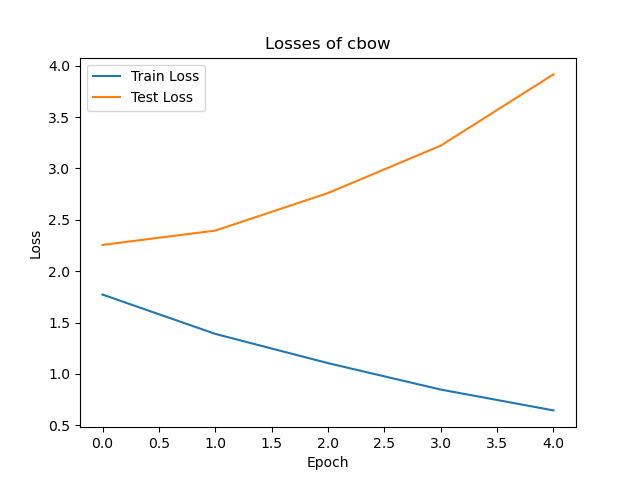
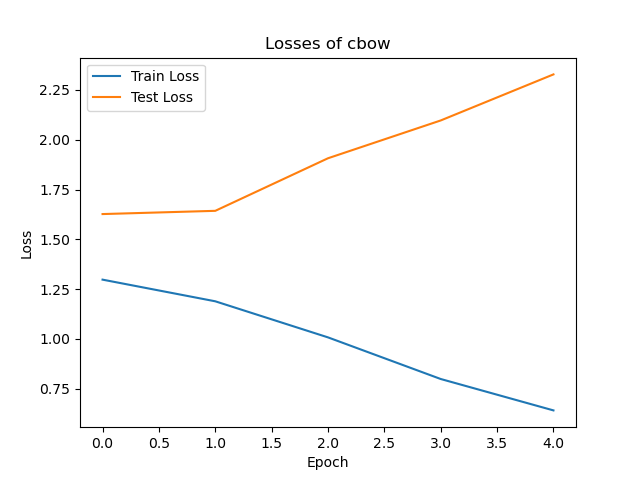
added the pretrained deep cbows

diff --git a/practical_2/models/DeepCBOW.py b/practical_2/models/DeepCBOW.py
@@ -1,0 +1,94 @@
+import torch
+from torch import nn
+import torch.nn.functional as F
+from practical_2.utils import t2i, Vocabulary, load_pretrained_weights
+import numpy as np
+
+
+def zero_init_function(n_vectors, vector_size):
+    return [[0] * vector_size] * n_vectors
+
+
+class DeepCBOW(nn.Module):
+    """A simple bag-of-words model"""
+
+    def __init__(self, vocab_size, embedding_dim, hidden_layer_dim, vocab, out_size=5):
+        super(DeepCBOW, self).__init__()
+        self.vocab = vocab
+
+        # this is a trainable look-up table with word embeddings
+        self.embed = nn.Embedding(vocab_size, embedding_dim)
+        self.l1 = nn.Linear(embedding_dim, hidden_layer_dim)
+        self.l2 = nn.Linear(hidden_layer_dim, hidden_layer_dim)
+        self.l3 = nn.Linear(hidden_layer_dim, 5)
+
+        self.layers = [
+            self.l1, self.l2, self.l3
+
+        ]
+
+        # this is a trainable bias term
+        self.bias = nn.Parameter(torch.zeros(out_size), requires_grad=True)
+
+    def forward(self, inputs):
+        # this is the forward pass of the neural network
+        # it applies a function to the input and returns the output
+
+        # this looks up the embeddings for each word ID in inputs
+        # the result is a sequence of word embeddings
+        x = self.embed(inputs)
+
+        for layer in self.layers:
+            x = torch.tanh(layer(x))
+
+        # the output is the sum across the time dimension (1)
+        # with the bias term added
+        logits = x.sum(1)
+
+        return logits
+
+
+class PTDeepCBOW(DeepCBOW):
+    """A simple bag-of-words model"""
+
+    def __init__(self, vocab_size, embedding_dim, hidden_layer_dim, vocab, out_size=5):
+        super(PTDeepCBOW, self).__init__(vocab_size, embedding_dim, hidden_layer_dim, vocab, out_size=out_size)
+
+    def load_pretrained_weights(self, vectors):
+        '''
+            Loads the pretrained weights from the given file.
+            Returns the vocab that it created loading the weights
+        :param ref:
+        :return:
+        '''
+        self.embed.weight.data.copy_(torch.from_numpy(vectors))
+
+
+def create_deep_cbow_model(v):
+    vocab_size = len(v.w2i)
+    n_classes = len(t2i)
+    deep_cbow_model = DeepCBOW(vocab_size, 300, 100, v, n_classes)
+    return deep_cbow_model
+
+
+def create_glove_deep_cbow_model():
+    ref = "embeddings/glove.840B.300d.sst.txt"
+    v, vectors = load_pretrained_weights(ref, zero_init_function)
+    vocab_size = len(v.w2i)
+    n_classes = len(t2i)
+
+    model = PTDeepCBOW(vocab_size, 300, 100, v, n_classes)
+    model.load_pretrained_weights(vectors)
+    return model
+
+
+
+def create_w2v_deep_cbow_model():
+    ref = "embeddings/googlenews.word2vec.300d.txt"
+    v, vectors = load_pretrained_weights(ref, zero_init_function)
+    vocab_size = len(v.w2i)
+    n_classes = len(t2i)
+
+    model = PTDeepCBOW(vocab_size, 300, 100, v, n_classes)
+    model.load_pretrained_weights(vectors)
+    return model

diff --git a/practical_2/scripts/train_pt_deep_cbow.py b/practical_2/scripts/train_pt_deep_cbow.py
@@ -1,0 +1,42 @@
+from torch.utils.data import DataLoader
+from practical_2.TreeDataset import TreeDataset, prepare_example
+from practical_2.models.BOW import *
+from torch.optim import *
+from practical_2.callbacks.callbacks import *
+from practical_2.models.CBOW import create_cbow_model
+from practical_2.models.DeepCBOW import create_deep_cbow_model, zero_init_function, create_glove_deep_cbow_model, \
+    create_w2v_deep_cbow_model
+from practical_2.prepare import prepare
+from practical_2.utils import *
+from practical_2.train import train_model
+
+### For reproducibility.
+prepare()
+
+
+
+train_dataset = TreeDataset("trees/train.txt")
+eval_testset = TreeDataset("trees/dev.txt")
+### Now we need to set the tranformation function
+transform = lambda example: prepare_example(example, train_dataset.v)
+
+train_dataset.transform = transform
+eval_testset.transform = transform
+
+train_dataloader = DataLoader(train_dataset, batch_size=1)
+eval_dataloader = DataLoader(eval_testset)
+
+
+model = create_w2v_deep_cbow_model()
+
+optimizer = Adam(model.parameters(), lr=0.0005)
+
+eval_callback = ListCallback([
+    AccuracyCallback()
+])
+
+history = train_model(model, optimizer, train_dataloader, eval_dataloader, eval_callback=eval_callback, n_epochs=5,
+                      eval_every=1)
+
+
+save_history(history, 'histories/w2v_pt_deep_cbow')

diff --git a/practical_2/scripts/train_deep_cbow.py b/practical_2/scripts/train_deep_cbow.py
@@ -1,0 +1,39 @@
+from torch.utils.data import DataLoader
+from practical_2.TreeDataset import TreeDataset, prepare_example
+from practical_2.models.BOW import *
+from torch.optim import *
+from practical_2.callbacks.callbacks import *
+from practical_2.models.CBOW import create_cbow_model
+from practical_2.models.DeepCBOW import create_deep_cbow_model
+from practical_2.prepare import prepare
+from practical_2.utils import *
+from practical_2.train import train_model
+
+### For reproducibility.
+prepare()
+
+train_dataset = TreeDataset("trees/train.txt")
+eval_testset = TreeDataset("trees/dev.txt")
+### Now we need to set the tranformation function
+transform = lambda example: prepare_example(example, train_dataset.v)
+
+train_dataset.transform = transform
+eval_testset.transform = transform
+
+train_dataloader = DataLoader(train_dataset, batch_size=1)
+eval_dataloader = DataLoader(eval_testset)
+v = train_dataset.v
+
+model = create_deep_cbow_model(v)
+
+optimizer = Adam(model.parameters(), lr=0.0005)
+
+eval_callback = ListCallback([
+    AccuracyCallback()
+])
+
+history = train_model(model, optimizer, train_dataloader, eval_dataloader, eval_callback=eval_callback, n_epochs=5,
+                      eval_every=1)
+
+
+save_history(history, 'histories/deep_cbow')

diff --git a/practical_2/scripts/glove_vocab.py b/practical_2/scripts/glove_vocab.py
@@ -1,0 +1,33 @@
+from practical_2.TreeDataset import TreeDataset
+from practical_2.utils import Vocabulary
+
+v = Vocabulary()
+vectors = []
+v.add_token("<unk>")  # reserve 0 for <unk> (unknown words)
+v.add_token("<pad>")  # reserve 1 for <pad> (discussed later)
+
+with open('embeddings/glove.840B.300d.sst.txt', mode='r', encoding="utf-8") as f:
+
+
+    for line in f:
+        line_list = line.split()
+        v.add_token(line_list[0])
+        vectors.append(line_list[1:])
+
+
+print(v.i2w[:10])
+
+train_v = TreeDataset("trees/train.txt").v
+dev_v = TreeDataset("trees/dev.txt").v
+test_v = TreeDataset("trees/test.txt").v
+
+all_words = set(train_v.i2w + dev_v.i2w + test_v.i2w)
+
+
+glove_words = set(v.i2w)
+
+words_not_found = all_words - glove_words
+print(len(all_words))
+print(len(words_not_found))
+print(len(words_not_found)/ len(all_words))
+

diff --git a/practical_2/utils.py b/practical_2/utils.py
@@ -153,3 +153,21 @@ def plot_history(history, title, flag=True):
         plt.ylabel(name)
         plt.savefig("{}_{}".format(save_title, name))
         plt.show()
+
+def load_pretrained_weights(ref, init_func=np.zeros):
+
+    v = Vocabulary()
+    vectors = []
+    v.add_token("<unk>")  # reserve 0 for <unk> (unknown words)
+    v.add_token("<pad>")  # reserve 1 for <pad> (discussed later)
+
+    with open(ref, mode='r', encoding="utf-8") as f:
+        for line in f:
+            line_list = line.split()
+            v.add_token(line_list[0])
+            vectors.append(line_list[1:])
+    vector_len = len(vectors[0])
+
+    vectors = np.array( init_func(2, vector_len) + vectors).astype(float)
+
+    return v, vectors

diff --git a/practical_2/models/CBOW.py b/practical_2/models/CBOW.py
@@ -30,7 +30,7 @@ class CBOW(nn.Module):
 
         # the output is the sum across the time dimension (1)
         # with the bias term added
-        logits = x.sum(1) + self.bias
+        logits = x.sum(1)
 
         return logits
 

diff --git a/practical_2/TreeDataset.py b/practical_2/TreeDataset.py
@@ -16,7 +16,6 @@ class TreeDataset(Dataset):
         self.transform = transform
 
         ### this dataset automatically creates a vocab
-
         self.prepare_vocab()
 
     def __len__(self):

diff --git a/practical_2/scripts/plot_history.py b/practical_2/scripts/plot_history.py
@@ -1,6 +1,6 @@
 from practical_2.utils import load_history, plot_history
 
-name = "cbow"
+name = "w2v_pt_deep_cbow"
 history = load_history('histories/{}'.format(name))
 
 
